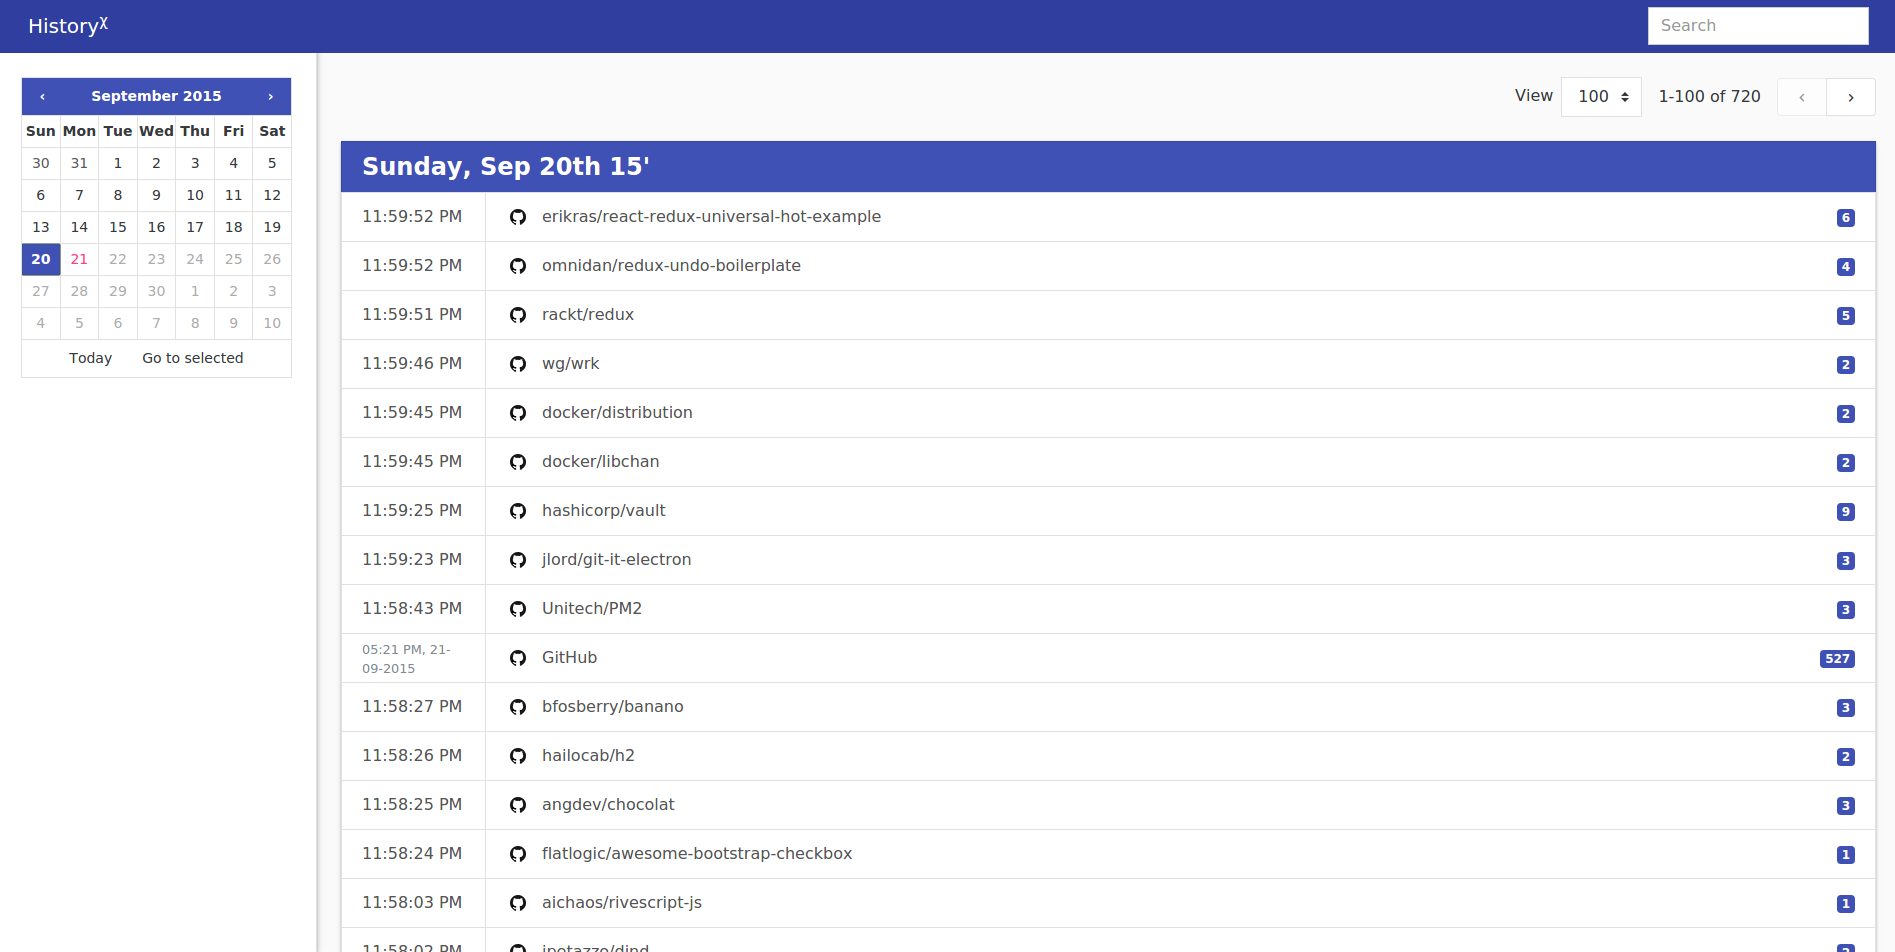
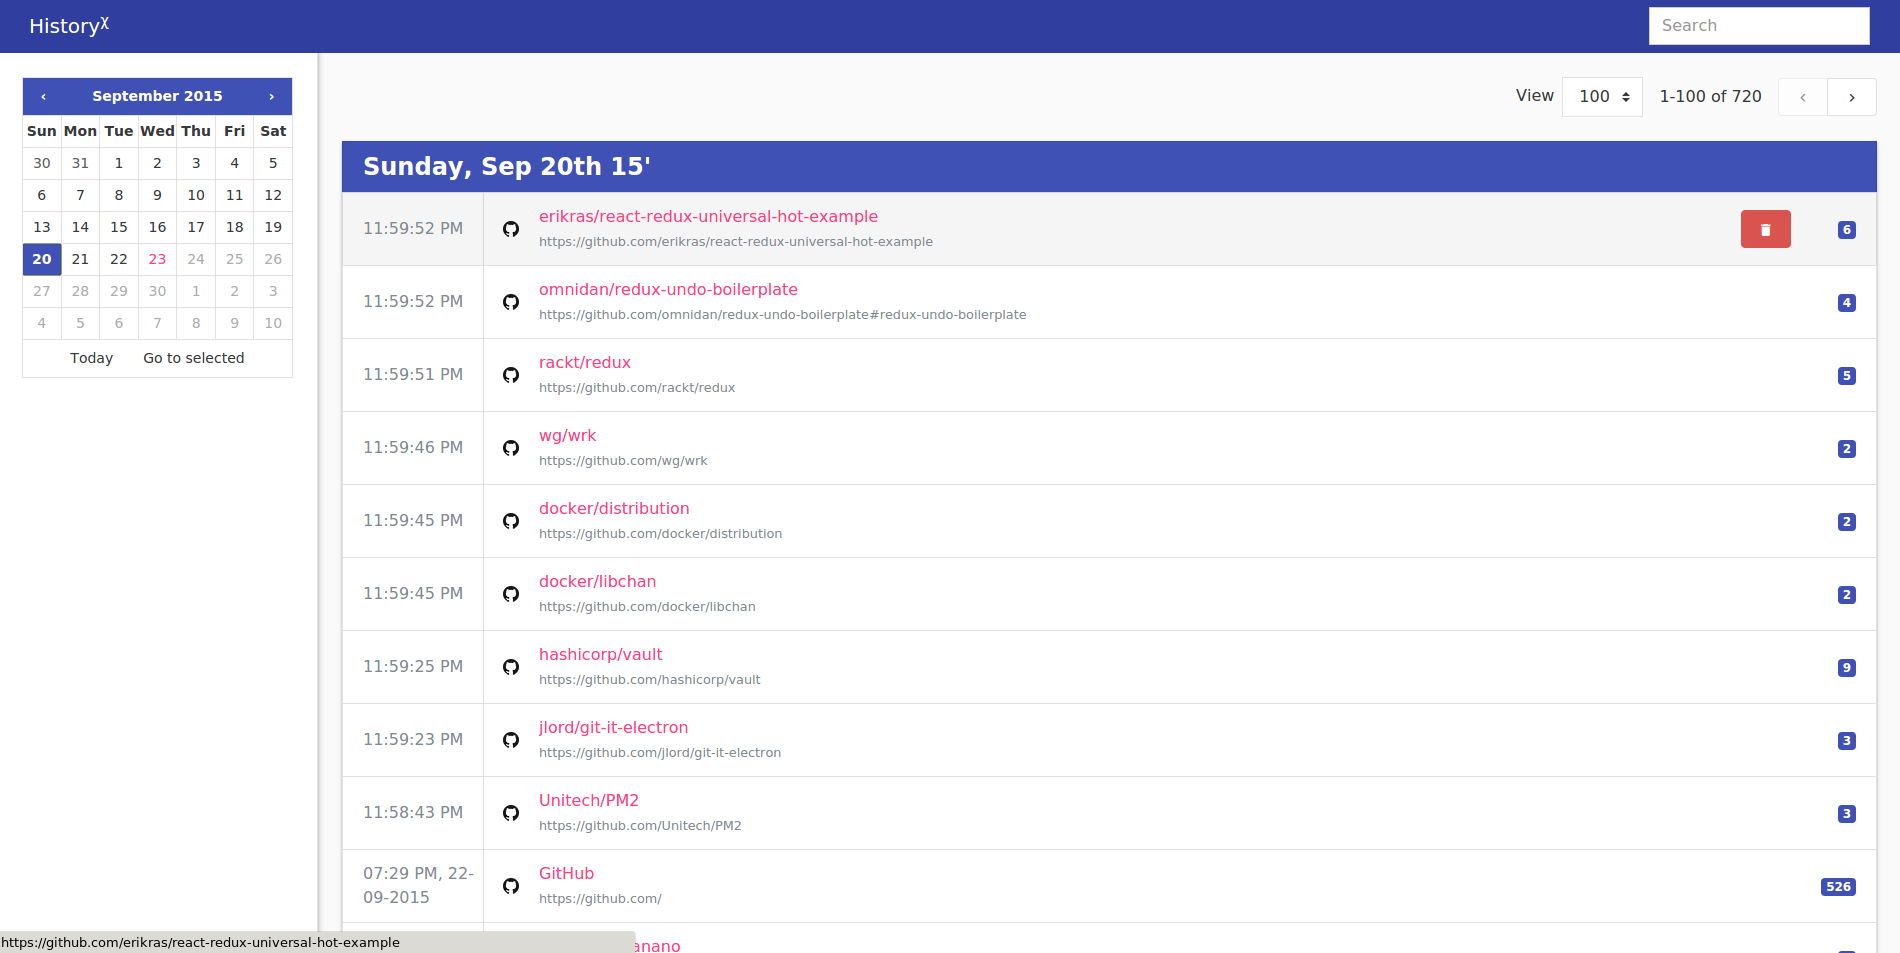
v2.4.0

diff --git a/_posts/2015-09-21-introducing-historyx-for-chrome.md b/_posts/2015-09-21-introducing-historyx-for-chrome.md
@@ -6,13 +6,13 @@ thumbnail: "/img/historyx.png"
 
 [![HistoryX for Chrome]({{site.url}}/img/historyx.png)]({{site.url}}/img/historyx.png)
 
-I am excited to introduce, [History<sup>&chi;</sup>][source] _(v2.3.1)_, an open source [Chrome extension][download] that I have been sporadically working on this past week. In the project manifest (and on GitHub), it is described as an _"extension to enhance your browsing history experience"_. But more specifically, it is an extension which, when enabled, will replace your existing history page with one that is leaner, and expanded with functionality.
+I am excited to introduce, [History<sup>&chi;</sup>][source] _(v2.4.0)_, an open source [Chrome extension][install] that I have been sporadically working on this past week. In the project manifest (and on GitHub), it is described as an _"extension to enhance your browsing history experience"_. But more specifically, it is an extension which, when enabled, will replace your existing history page with one that is leaner, and expanded with functionality.
 
 It is ideal for regular, and power users alike. The former can take advantage of the improved interface, and smooth [materialesque][material] browsing experience, while the latter can take advantage of the **search, sort, group, and filter features**.
 
 ---
 
-You can [install v2.3.1][download] in the Chrome Web Store now or download the [source][], and run it in [developer mode][].
+You can [install v2.4.0][install] in the Chrome Web Store now or download the [source][], and run it in [developer mode][].
 
 <!--more-->
 
@@ -28,7 +28,7 @@ This extension was built to cater for that need. After all, sometimes what I fin
 
 ### Features
 
-[![v2.3.1]({{site.url}}/img/historyx-screenshot.png)]({{site.url}}/img/historyx-screenshot.png)
+[![v2.4.0]({{site.url}}/img/historyx-screenshot.png)]({{site.url}}/img/historyx-screenshot.png)
 
 History<sup>&chi;</sup> supports the basic listing, searching, and paging feature that you can find on the default browser page.
 
@@ -121,7 +121,13 @@ This project does not have an official communication channel, but I am generally
 
 ## Post-publishing
 
-It has just occurred to me, upon publishing my extension, that I have not included any option to delete a visit. I will be releasing a new version to address this as soon as possible.
+<del>It has just occurred to me, upon publishing my extension, that I have not included any option to delete a visit. I will be releasing a new version to address this as soon as possible.</del>
+
+**Update v2.4.0 (23/09/15):**
+
+- You can now delete a visit from your history. For developers, the delete button can be found in the history actions component. Mouseover over a visit to see the delete button;
+- The visit's full URL is now shown below its title;
+- The results' data are organised (i.e. positioned) through flexbox.
 
 Finally, there are several FAQs I would like to address before they are brought up:
 
@@ -153,7 +159,7 @@ Finally, there are several FAQs I would like to address before they are brought 
 
 
 
-[download]: https://chrome.google.com/webstore/detail/historyx/eogcblpflkiminggblnpdhmdkihgceif?hl=en-GB&gl=GB
+[install]: https://goo.gl/d8D1JP
 [source]: https://github.com/MrSaints/historyx
 [developer mode]: https://developer.chrome.com/extensions/getstarted#unpacked
 [react]: https://facebook.github.io/react/
